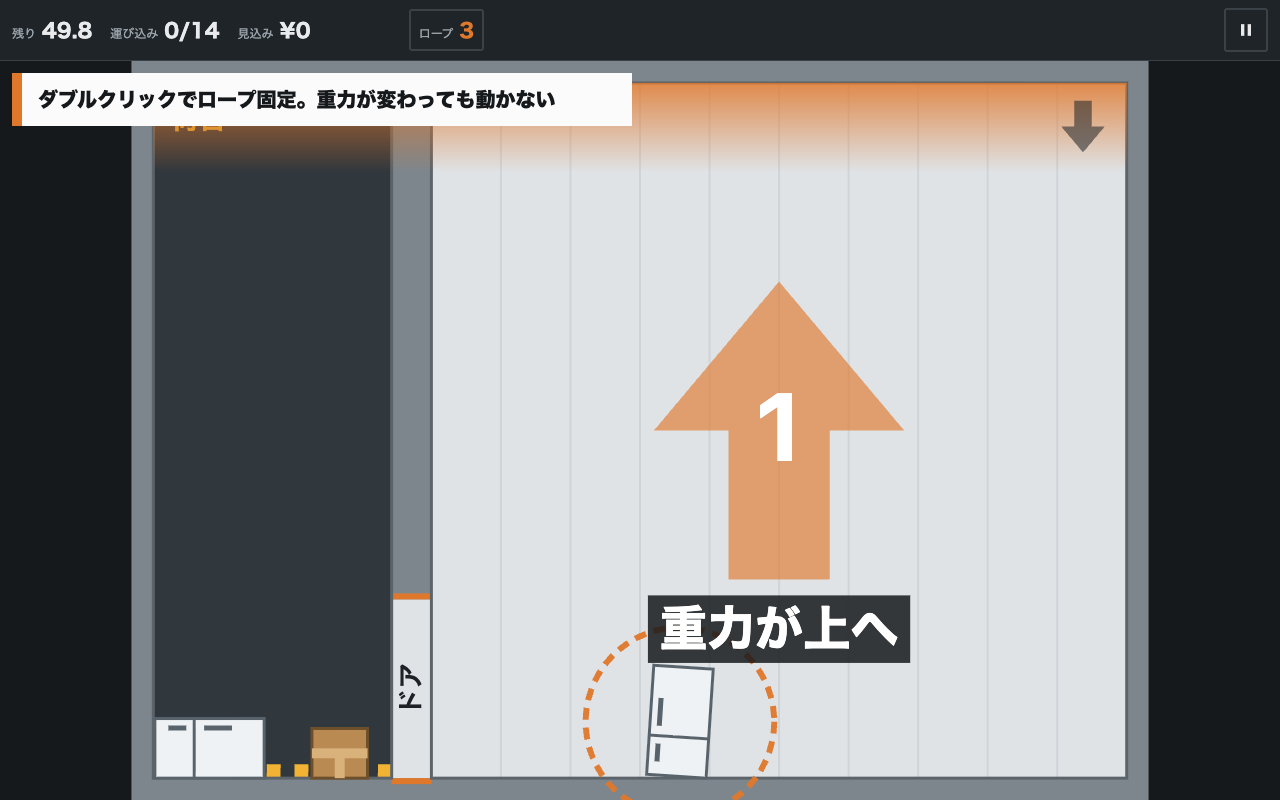
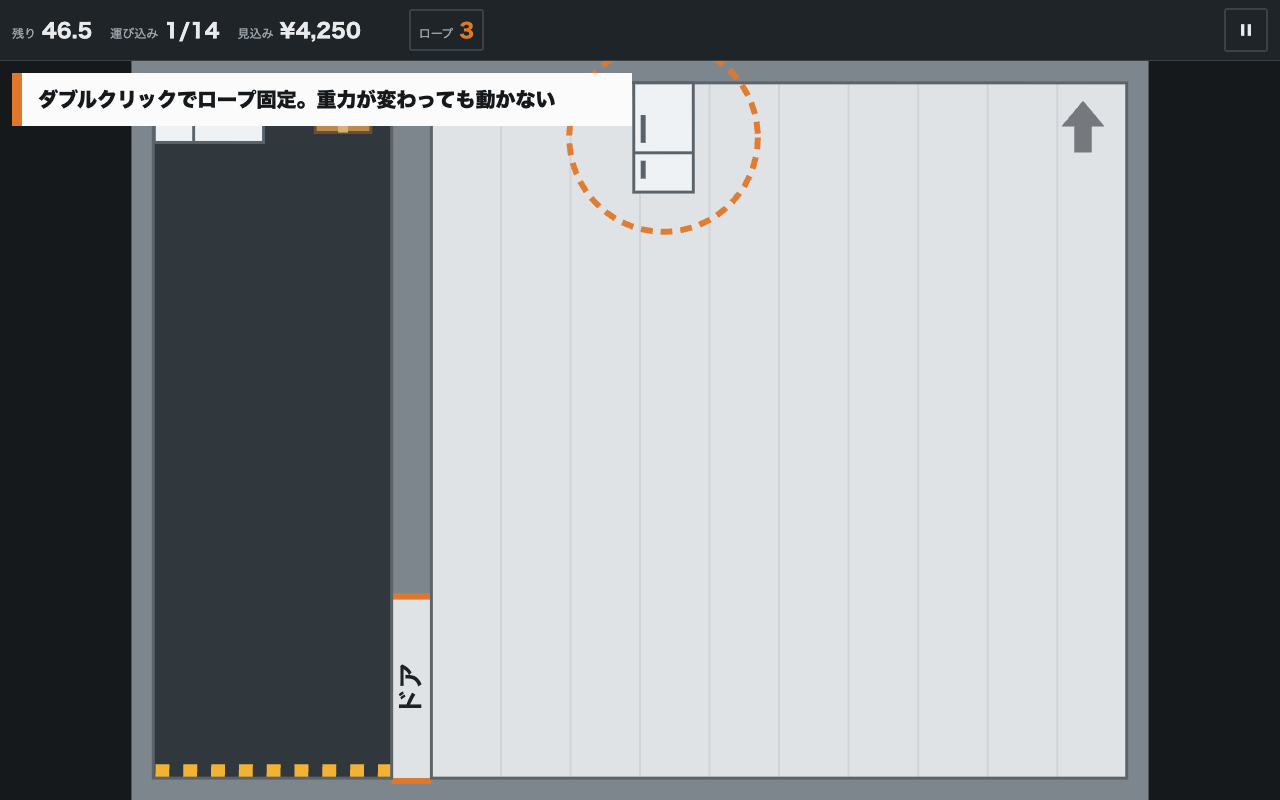
Add before/after screenshots and the first-play review notes

diff --git a/docs/onboarding-review.md b/docs/onboarding-review.md
@@ -24,3 +24,17 @@
 8. スマホ縦では HUD が 2 行に折り返し、一時停止ボタンだけが 2 行目に落ちる
 9. 結果画面の金額 2 列に見出しがない（報酬か被害か分からない）。運び込めなかった理由（荷台に残った、部屋の外、止まっていない、割れた）が分からない
 10. タイトルの説明文はロープの細かい条件が中心で、肝心の「部屋に運ぶ → 重力が変わる → 止まっていれば得点」の流れが伝わらない
+
+## 直したあと（公開版 1a968eb で確認）
+
+同じ手順を公開 URL で流した。スクショは `docs/screenshots/onboarding/after-*.png`。
+
+| 項目 | 分かる時点 |
+| --- | --- |
+| 目的 | タイトルの 3 コマ図（1 コマ目）。ゲーム開始直後に、荷台の家具に「ここをドラッグ」 |
+| どこへ運ぶか | 開始直後から。荷台・ドア・部屋に名前があり、部屋の枠が点滅し、荷台 → ドア → 部屋の経路と「ここへ運ぶ」が出る |
+| 何が得点か | タイトルの 3 コマ目。プレイ中は HUD の「運び込み n/14」と「見込み ¥」が、家具が部屋で止まった時点で増える。結果画面に条件と、報酬にならなかった理由が出る |
+| 重力が変わること | タイトルの 2 コマ目。予告中は矢印の下に「重力が上へ」、最初の予告では「家具は矢印の向きへ落ちる」 |
+| ロープ | 最初の家具が部屋で止まったとき、その家具を丸で囲み「長押しでロープ固定」（PC はダブルクリック）。HUD は残り本数を数字で出す |
+
+すでに遊んだ人（`tutorialDone` あり）でも、ドラッグとゴールの誘導が出ることを確かめた。
